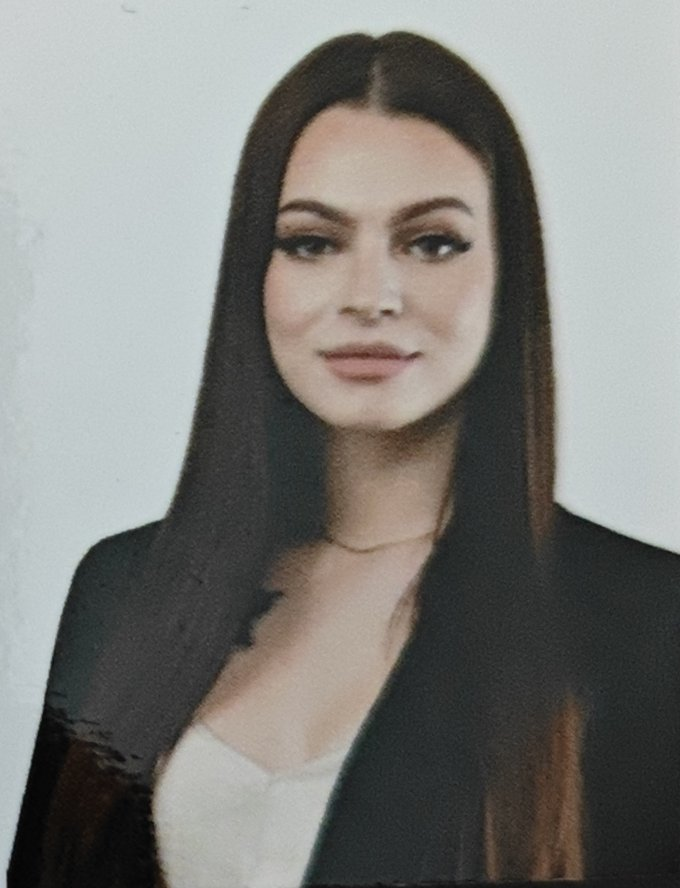
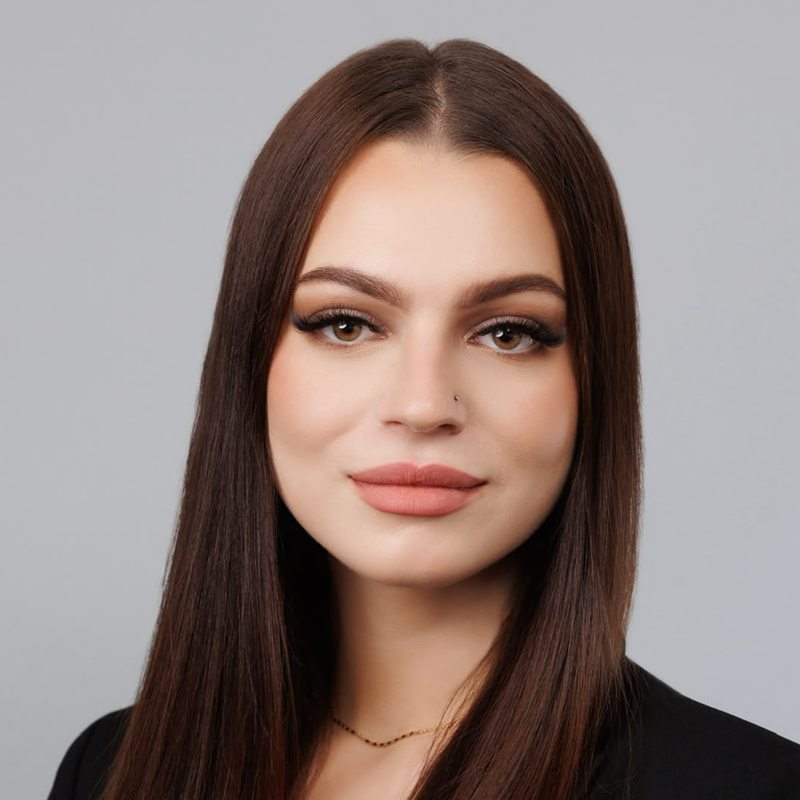
Originální fotka Terezy, kreslená verze doladěná podle ní

diff --git a/index.html b/index.html
@@ -96,7 +96,7 @@
       <svg class="note-arrow" viewBox="0 0 80 60" aria-hidden="true"><path d="M4 8 C30 6 52 18 66 46 M54 40 L67 48 L70 34"/></svg>
 
       <figure class="polaroid">
-        <img src="img/tereza-kreslena.svg?v=4" width="220" height="238" alt="Kreslená Tereza Bendlová se usmívá, má založené ruce a mrká">
+        <img src="img/tereza-kreslena.svg?v=5" width="220" height="238" alt="Kreslená Tereza Bendlová se usmívá, má založené ruce a mrká">
         <figcaption class="hand">Tereza Bendlová<br><span>manažerka pobočky Klášterec</span></figcaption>
       </figure>
     </div>
@@ -247,7 +247,7 @@
 <section class="section section--line" id="o-mne">
   <div class="wrap about">
     <div class="about__photo">
-      <img src="img/tereza.jpg" width="680" height="888" alt="" loading="lazy">
+      <img src="img/tereza.jpg?v=2" width="800" height="800" alt="" loading="lazy">
       <svg viewBox="0 0 200 200" aria-hidden="true"><path d="M100 8 C160 6 194 50 192 102 C190 156 150 194 98 192 C44 190 8 152 10 98 C12 48 50 12 104 10 C150 9 180 30 188 60"/></svg>
     </div>
     <div>

diff --git a/README.md b/README.md
@@ -5,7 +5,7 @@ Osobní web Terezy Bendlové, manažerky pobočky M&M Reality Klášterec nad Oh
 Stav: **náhled** (noindex). Statický web na GitHub Pages, písmo Plus Jakarta Sans nahrané lokálně.
 
 ## Chybí / k doplnění
-- [ ] Originální fotka ve vysokém rozlišení (teď výřez z vizitky)
+- [x] Originální fotka (dodaná 2026-10-26)
 - [ ] Souhlas M&M Reality s osobním webem a použitím značky / sloganu
 - [ ] Kdo je správce údajů (M&M, nebo Tereza jako OSVČ s IČO?)
 - [ ] Skutečné nabídky, prodané nemovitosti, reference (žádné vymyšlené)
